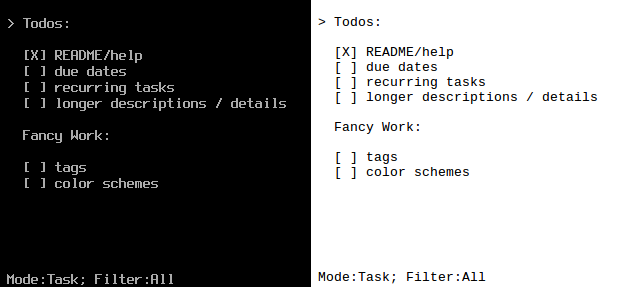
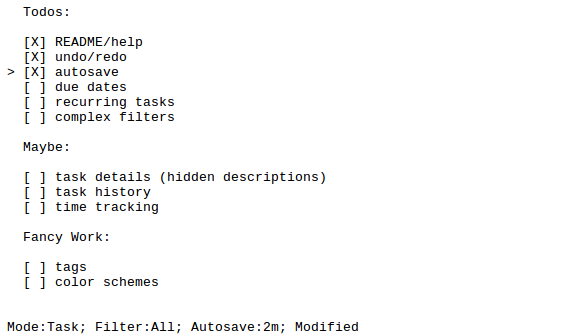
Update TODO.txt, README.md, and screenshot

diff --git a/README.md b/README.md
@@ -1,8 +1,22 @@
 ## TaskBox
 
-TaskBox is a hybrid between simple editor and simple task manager for terminal.
-It stores data in plain human readable text files (see [TODO.txt](TODO.txt)),
-does not use any database backend, and does not require any libs.
+Yet another task manager for terminal. In fact this is a hybrid between
+simple editor and simple task manager.
+
+## Why?
+
+I surrender to find perfect (for me) task manager. I practice in Go.
+
+## Features
+
+  * TUI
+  * uses plain text files in human readable,
+    [github friendly](https://help.github.com/articles/about-task-lists/) format
+  * unlimited undo/redo
+  * autosave
+  * does not require any libs (except Go dependencies)
+
+## Screenshot
 
 ![Screenshot](screenshot.png)
 
